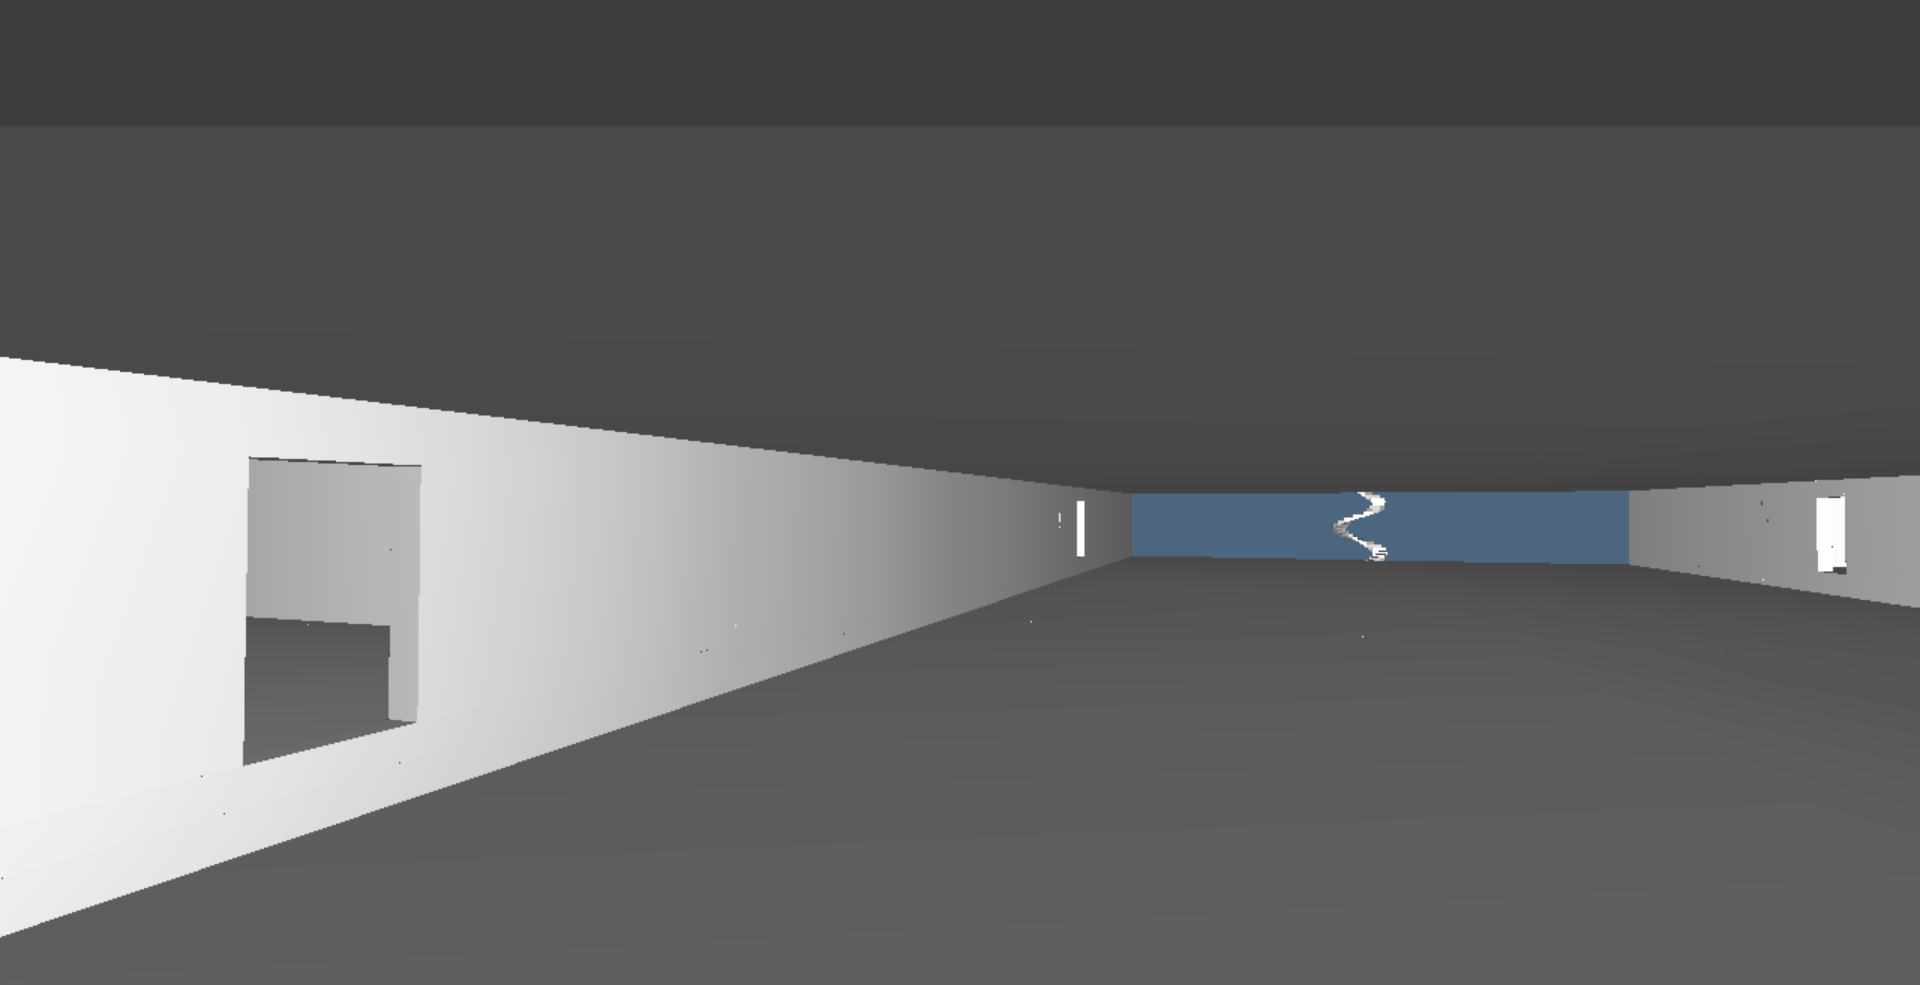
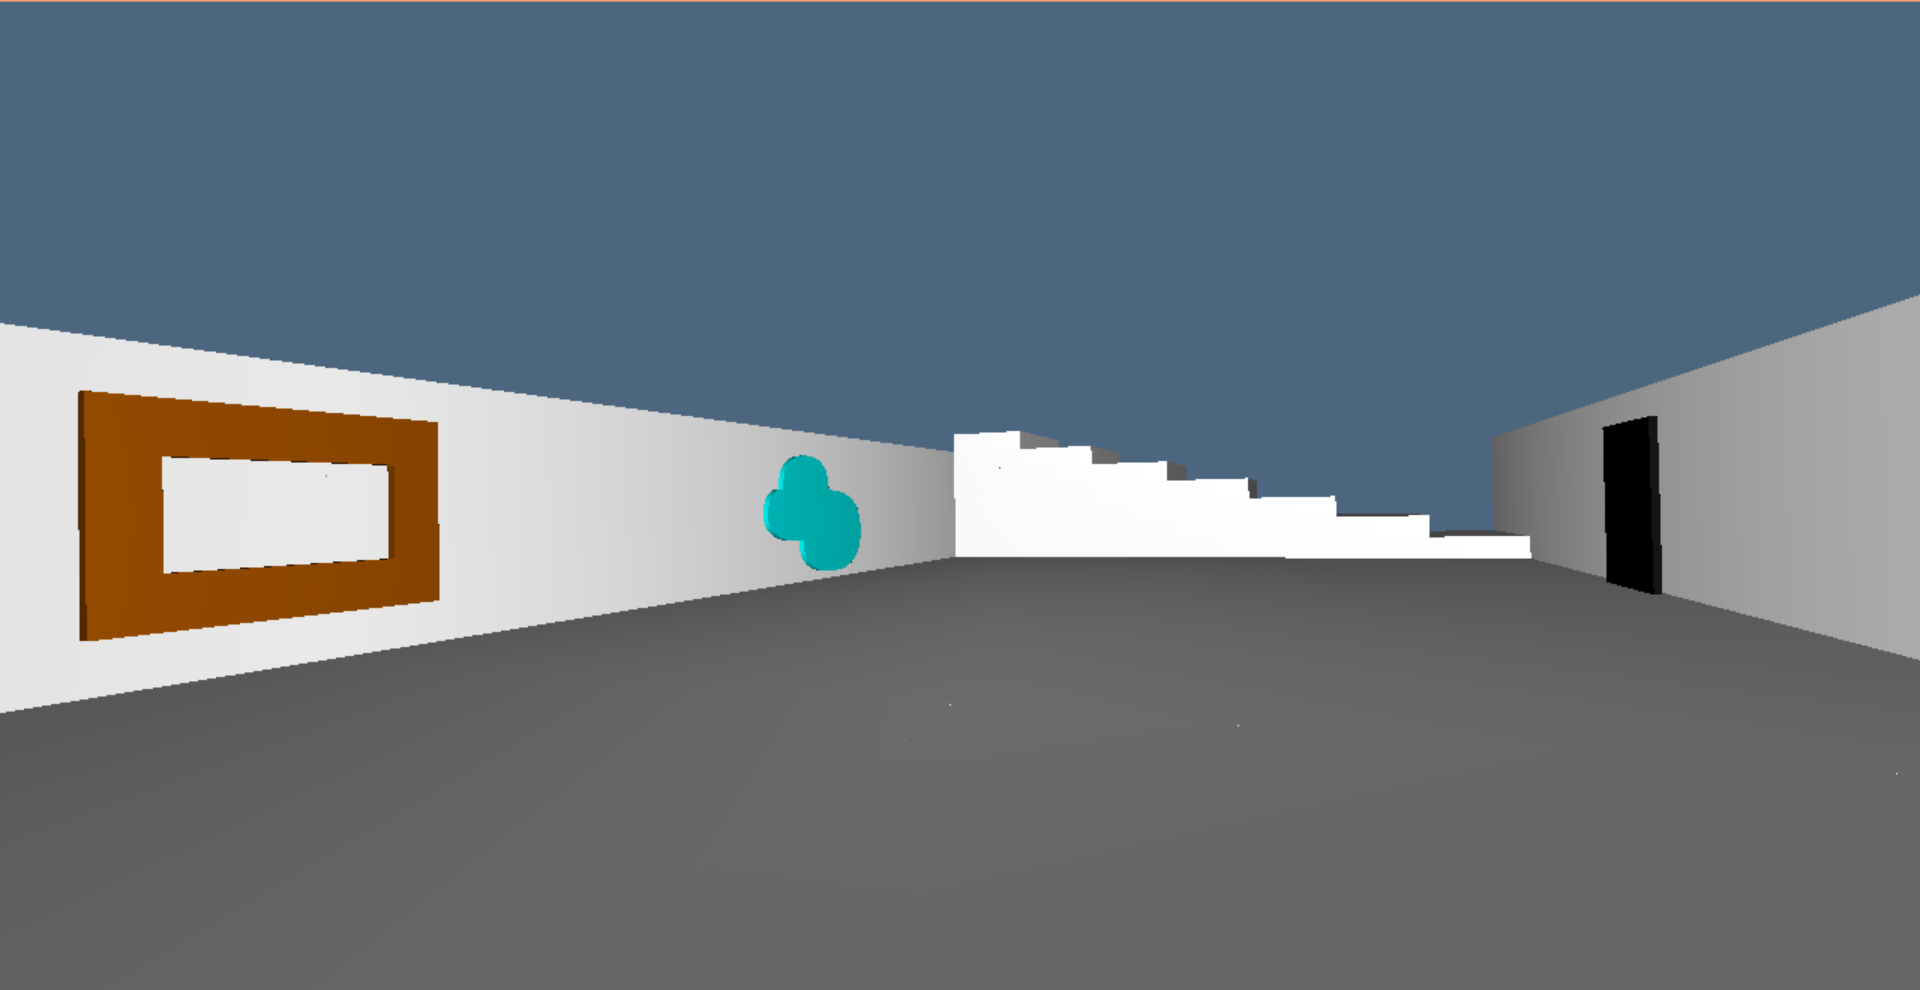
final commit
last update hw3

diff --git a/2014-05-16/python/Exercise2.py b/2014-05-16/python/Exercise2.py
@@ -12,10 +12,17 @@ from largrid import *
 from mapper import *
 from boolean import *
 from sysml import *
+from splines import *
 #END IMPORT#
 
+#def some utility funtions 
 DRAW = COMP([VIEW,STRUCT,MKPOLS])
 BROWN = [0.58823529411,0.29411764705,0]
+SK = COMP([VIEW,SKEL_1,STRUCT,MKPOLS])
+def larDom(knots,tics=32):
+    domain = knots[-1]-knots[0]
+    return larIntervals([tics*domain])([domain])
+#end
 
 #Def Door function
 def Door(width) :
@@ -60,7 +67,7 @@ def Automatize(diagram, master, toMergeCells) :
 
 #Def AutomatizeCellNumbering function
 def AutomatizeCellNumbering(master, hpc) :
-    hpc = cellNumbering (master,hpc)(range(len(master[1])),RED,1.5)
+    hpc = cellNumbering (master,hpc)(range(len(master[1])),RED,2)
     return hpc
 #end
 
@@ -169,29 +176,85 @@ def MasterPalace() :
     dwelling = out(toRemoveChain)
     dwellingA = STRUCT(MKPOLS(dwelling))
     dwellingRot = R([1,2])(PI)(dwellingA)
-    dwellingB = T(1)(21)(T(2)(90)(dwellingRot))
+    dwellingB = T(1)(21)(T(2)(98)(dwellingRot))
     halfFloor = STRUCT([dwellingB,dwellingA])
     chainA = STRUCT([halfFloor, T(1)(21)]*2)
     palace = STRUCT([chainA, T(3)(3)]*10)
     return palace
 #END#
 
-#FUNZIONE GENERA SCALA#
+#Def rampaScale function#
+def rampaScale():
+    V0 = [[0,0],[14,0],[14,4],[0,4]]
+    V1 = [[0,0],[12,0],[12,4],[0,4]]
+    V2 = [[0,0],[10,0],[10,4],[0,4]]
+    V3 = [[0,0],[8,0],[8,4],[0,4]]
+    V4 = [[0,0],[6,0],[6,4],[0,4]]
+    V5 = [[0,0],[4,0],[4,4],[0,4]]
+    V6 = [[0,0],[2,0],[2,4],[0,4]]
+    FV = [[0,1,2,3,0]]
+    pol0 =  SOLIDIFY(STRUCT(AA(POLYLINE)([[V0[v] for v in cell] for cell in FV])))
+    solid0 = PROD([pol0, QUOTE([.5])])
+    pol1 =  SOLIDIFY(STRUCT(AA(POLYLINE)([[V1[v] for v in cell] for cell in FV])))
+    solid1 = PROD([pol1, QUOTE([-.5,.5])])
+    pol2 =  SOLIDIFY(STRUCT(AA(POLYLINE)([[V2[v] for v in cell] for cell in FV])))
+    solid2 = PROD([pol2, QUOTE([-1,.5])])
+    pol3 =  SOLIDIFY(STRUCT(AA(POLYLINE)([[V3[v] for v in cell] for cell in FV])))
+    solid3 = PROD([pol3, QUOTE([-1.5,.5])])
+    pol4 =  SOLIDIFY(STRUCT(AA(POLYLINE)([[V4[v] for v in cell] for cell in FV])))
+    solid4 = PROD([pol4, QUOTE([-2,.5])])
+    pol5 =  SOLIDIFY(STRUCT(AA(POLYLINE)([[V5[v] for v in cell] for cell in FV])))
+    solid5 = PROD([pol5, QUOTE([-2.5,.5])])
+    pol6 =  SOLIDIFY(STRUCT(AA(POLYLINE)([[V6[v] for v in cell] for cell in FV])))
+    solid6 = PROD([pol6, QUOTE([-3,.5])])
+    return STRUCT([solid0,solid1,solid2,solid3,solid4,solid5,solid6])
+#end
 
-#END#
+#Def bezierMirror function
+def bezierMirror() :
+    controls = [[2.33,1.33],[2.33,0.66],[0,0.66],[0,2.33],
+                [1.33,2.33],[1.33,2.33],[1.33,3],[3,3],[3,2.33],
+                [3,2.33],[3.5,2.33],[3.5,1.33],[2.33,1.33]]
+    knots = [0,0,0,1,2,3,3,3,4,5,5,5,6,7,7,7]
+    bspline = BSPLINE(2)(knots)(controls)
+    obj = larMap(bspline)(larDom(knots))
+    pol = SOLIDIFY(STRUCT(MKPOLS(obj)))
+    mirror = PROD([pol, QUOTE([0.1])])
+    mirror = R([3,2,1])((3*PI)/2)(mirror)
+    return mirror
 
 #FUNZIONE VETRATA#
 def PareteVetro() :
-    V = [[0,0],[22,0],[22,0.3],[0,0.3],[0,0]]
-    FV = [[1,2,3,4,1]]
+    V = [[0,0],[22,0],[22,0.3],[0,0.3]]
+    FV = [[0,1,2,3,0]]
     pol0 =  SOLIDIFY(STRUCT(AA(POLYLINE)([[V[v] for v in cell] for cell in FV])))
     solid0 = PROD([pol0, QUOTE([-3,27])])
     vetrata = STRUCT([COLOR([0.274,0.509,0.705])(solid0)])
     return vetrata
 #END#
 
-#stair = STRUCT(MKPOLS(spiralStair(0.2,1,0.5,0.1,2,27.3,18)))
-#stairT = T(2)(40)(stair)
-#vetrata = T(2)(7)(T(1)(46)(R([1,2])(PI/2)(T(1)(20)(PareteVetro()))))
-VIEW(STRUCT([MasterPalace()]))
+#Def groundFloor function
+def groundFloor():
+    content = assemblyDiagramInit([2,6,2])([[21,21],[23,19,7,7,19,23],[-3,-0.3]])
+    toRemoveChain = [4,6,16,18]
+    out = Automatize(None,content,None)
+    ground = out(toRemoveChain)
+    ground = STRUCT(MKPOLS(ground))
+    mirror = T(1)(10)(T(3)(-3.5)(T(2)(42.2)(bezierMirror())))
+    scal = R([1,2])(PI/2)(rampaScale())
+    scal = T(1)(4)(T(3)(-3)(T(2)(42)(scal)))
+    elevator = COLOR(BLACK)(T(1)(10)(T(3)(-3.5)(T(2)(55.8)(CUBOID([2,0.1,3])))))
+    picture = DIFFERENCE([CUBOID([3,0.1,2]), T(1)(0.5)(T(3)(0.5)(CUBOID([2,0.1,1])))])
+    picture = COLOR(BROWN)(T(1)(20)(T(3)(-2.5)(T(2)(42.2)(picture))))
+    VIEW(STRUCT([ground,COLOR(CYAN)(mirror),scal,elevator,picture]))
+    #return STRUCT([ground,COLOR(CYAN)(mirror)])
+#end
+
+stepsR = R([1,2])(PI/2)(rampaScale())
+steps = T(1)(4)(T(3)(-3)(T(2)(42)(stepsR)))
+rampe = STRUCT([steps, T(3)(3)]*10)
+
+#ESEMPIO ESECUZIONE
+groundFloor()
+VIEW(STRUCT([rampe,MasterPalace()]))
 

diff --git a/2014-05-16/python/Exercise4.py b/2014-05-16/python/Exercise4.py
@@ -1,87 +1,14 @@
-""" progressive refinement of a block diagram """
-from pyplasm import *
-from scipy import *
-import os,sys
-""" import modules from larcc/lib """
-sys.path.insert(0, 'lib/py/')
-from lar2psm import *
-from simplexn import *
 from larcc import *
-from largrid import *
-from mapper import *
 from boolean import *
-
-from sysml import *
-
-DRAW = COMP([VIEW,STRUCT,MKPOLS])
-
-#Funzione MergeList (no doppioni) V1-->V0#
-def mergeLists(V0,V1) :
-    V = []
-    isPresente = False
-    for v1 in V1:
-        for v0 in V0:
-            if(v1==v0):
-                isPresente = True
-                break
-        if(isPresente==False):
-            V.append(v1)
-            isPresente = False
-    if(len(V)==0):
-        return V0
-    return V
-#END#
-
-#FUNZIONE Automatize#
-def Automatize(diagram, master, toMergeCells) :
-    masterFinal = master
-    hpc_list = []
-    V_final = []
-    CV_final = []
-    for cell in toMergeCells :
-        masterFinal = diagram2cellNEW(diagram,master,cell)
-        hpc = SKEL_1(STRUCT(MKPOLS(masterFinal)))
-        hpc = cellNumbering (masterFinal,hpc)(range(len(masterFinal[1])),CYAN,2)
-        hpc_list.append(hpc)
-        #CV_final.pop(cell)
-        if(len(CV_final)==0):
-            CV_final = masterFinal[1]
-            V_final = masterFinal[0]
-        else:
-            V_final = mergeLists(V_final,masterFinal[0])
-        VIEW(hpc)
-    #TODO rimuovo celle doppie
-    hpc_Final = STRUCT(hpc_list)
-    larModel = V_final,CV_final
-    master_result = cellNumbering (larModel,hpc_Final)(range(len(CV_final)),CYAN,2)
-    VIEW(hpc_Final)
-    VIEW(SKEL_1(STRUCT([master_result])))
-    def Automatize0(toRemoveCells) :
-        masterRem = V_final, [cell for k,cell in enumerate(CV_final) if not (k in toRemoveCells)]
-        return masterRem
-    return Automatize0
-#END#
 
 def diagram2cellNEW(diagram,master,cell):
    mat = diagram2cellMatrix(diagram)(master,cell)
    diagram =larApply(mat)(diagram)  
-   V,CV1,CV2,n12 = vertexSieve(master,diagram)
-   VIEW(SKEL_1(STRUCT(MKPOLS([V,CV1]))))
-   VIEW(SKEL_1(STRUCT(MKPOLS([V,CV2]))))
-   
-   V = master[0] + diagram[0]
-   offset = len(master[0])
-   CV = [c for k,c in enumerate(master[1]) if k != cell] + [[v+offset for v in c] for c in diagram[1]]
-   master = V, CV
+   V,CV = master
+   #remove cell in master
+   CV = [c for k,c in enumerate(CV) if k != cell]
+   #sieve vertex
+   V, CV1, CV2, NN = vertexSieve((V,CV),diagram)
+   CV = CV1+CV2
+   master = V,CV
    return master
-
-#ESEMPIO#
-master = assemblyDiagramInit([5,5,2])([[.3,3.2,.1,5,.3],[.3,4,.1,2.9,.3],[.3,2.7]])
-V,CV = master
-hpc = SKEL_1(STRUCT(MKPOLS(master)))
-hpc = cellNumbering (master,hpc)(range(len(CV)),CYAN,2)
-VIEW(hpc)
-diagram = assemblyDiagramInit([3,1,2])([[2,1,2],[.3],[2.2,.5]])
-
-VIEW(SKEL_1(STRUCT(MKPOLS(Automatize(diagram, master, [39,31])([31])))))
-#END#

diff --git a/2014-05-16/python/Exercise3Final.py b/2014-05-16/python/Exercise3Final.py
@@ -19,10 +19,11 @@ DRAW = COMP([VIEW,STRUCT,MKPOLS])
 
 #Def Automatize function
 def Automatize(diagram, master, toMergeCells) :
-    ToMerge=list.sort(toMergeCells)
-    ToMerge=list.reverse(toMergeCells)	
-    for k in toMergeCells:
-        master = diagram2cell(diagram,master,k)
+    if not(toMergeCells == None):
+        ToMerge=list.sort(toMergeCells)
+        ToMerge=list.reverse(toMergeCells)	
+        for k in toMergeCells:
+            master = diagram2cell(diagram,master,k)
     hpc = SKEL_1(STRUCT(MKPOLS(master)))
     hpc = AutomatizeCellNumbering(master, hpc)
     VIEW(hpc)
